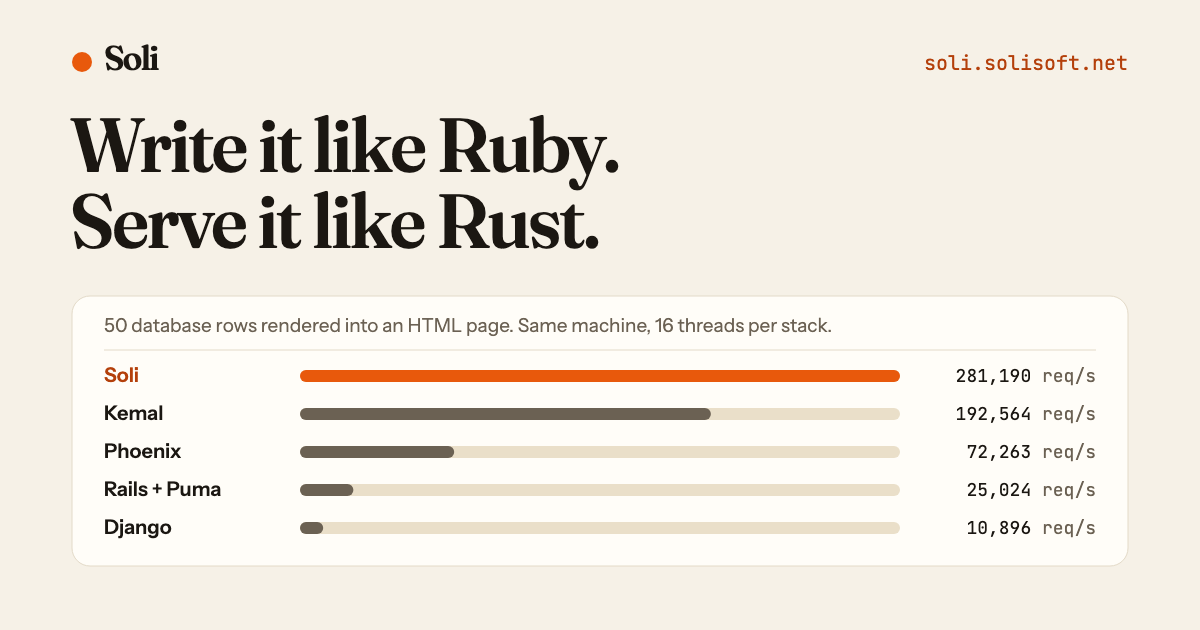
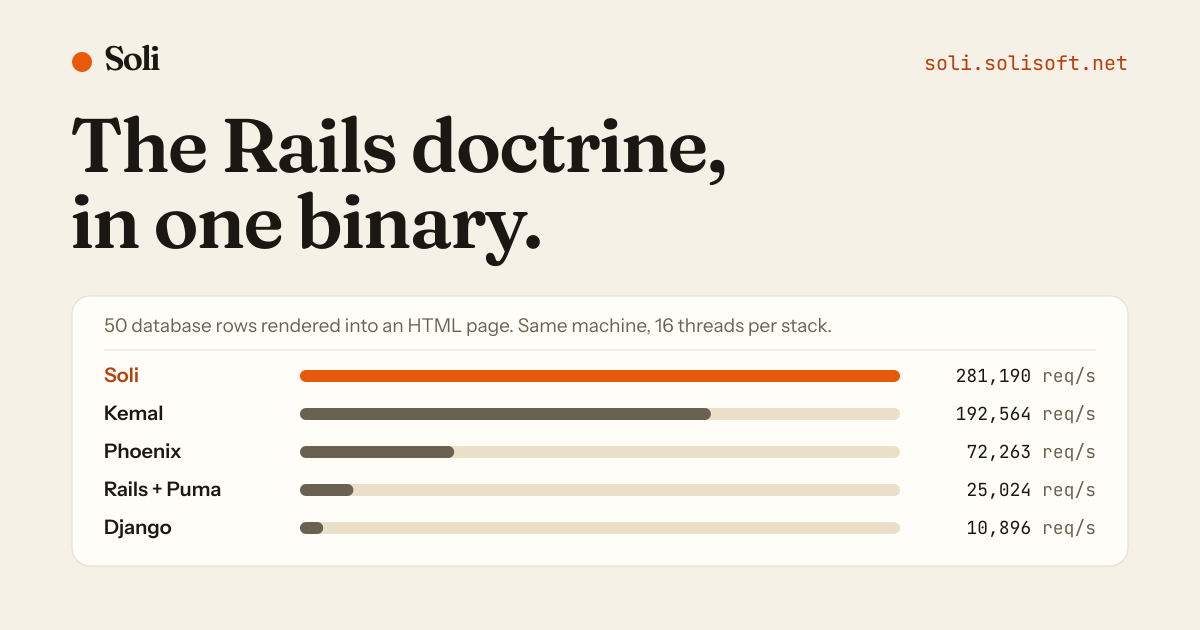
docs(www): reposition the home page on the Rails doctrine, not on beating Rails
Feedback from a Rails developer: the page read as "Rails, but faster, and
young", and neither half brings a Rails developer over. What brought people
to Rails is its doctrine; with agents writing the code, the doctrine is
what still matters. Soli is that doctrine in one binary, with the speed as
a bonus, and its opponent is the Ruby runtime, not Rails.

- Hero: "The Rails doctrine, in one binary." The load ramp keeps every
  number but its label no longer reads "11.2x Rails".
- The agents section moves up under the hero, retitled "Conventions your
  agent can't get wrong".
- "Built with Soli" (Bonfire) moves up to third, with what every commit
  must pass: 10,000+ tests against real Postgres/MySQL/SQLite, browser
  end-to-end specs, nightly fuzzing, cargo audit. Evidence of stability
  rather than a "battle-tested" claim the project cannot make yet.
- The struck-through Gemfile becomes "Omakase, all the way down": Rails'
  own idea carried through, not a roast of Rails.
- Performance figures read as one server's capacity, not multiples of
  Rails.
- The closing CTA drops the "it's just me" footnote.
- Page title, description, OG/Twitter alt text and the OG card (SVG and
  PNG) carry the new headline.

Site copy only: no feature changed, so the docs, both changelogs, the
comparison page and the soli-lang/solidb skills need no update.

diff --git a/www/public/css/landing.css b/www/public/css/landing.css
@@ -80,6 +80,10 @@
 .lp-card p code { padding: 1px 6px; border-radius: 6px; background: var(--paper-sunk); font-size: 0.9em; color: var(--ink); }
 .lp-chips { display: flex; flex-wrap: wrap; gap: 8px; }
 .lp-chips span { display: inline-flex; align-items: center; min-height: 36px; padding: 0 14px; border-radius: 999px; border: 1px solid var(--line); font-size: 14px; font-weight: 500; color: var(--ink-soft); }
+.lp-proof { list-style: none; margin: clamp(40px, 6vw, 64px) 0 0; padding: 0; display: grid; grid-template-columns: repeat(auto-fit, minmax(220px, 1fr)); gap: 28px 40px; border-top: 1px solid var(--line); padding-top: 32px; }
+.lp-proof li { display: flex; flex-direction: column; gap: 6px; }
+.lp-proof strong { font-family: 'Fraunces', serif; font-weight: 600; font-size: 22px; letter-spacing: -0.015em; color: var(--ink); }
+.lp-proof span { font-size: 15px; line-height: 1.55; color: var(--ink-soft); }
 .lp-mini { padding: 14px 16px; border-radius: 14px; background: var(--paper-raised); border: 1px solid var(--line-soft); text-align: center; }
 .lp-mini strong { display: block; font-size: 16px; }
 .lp-mini span { font-size: 14px; color: var(--ink-faint); }
